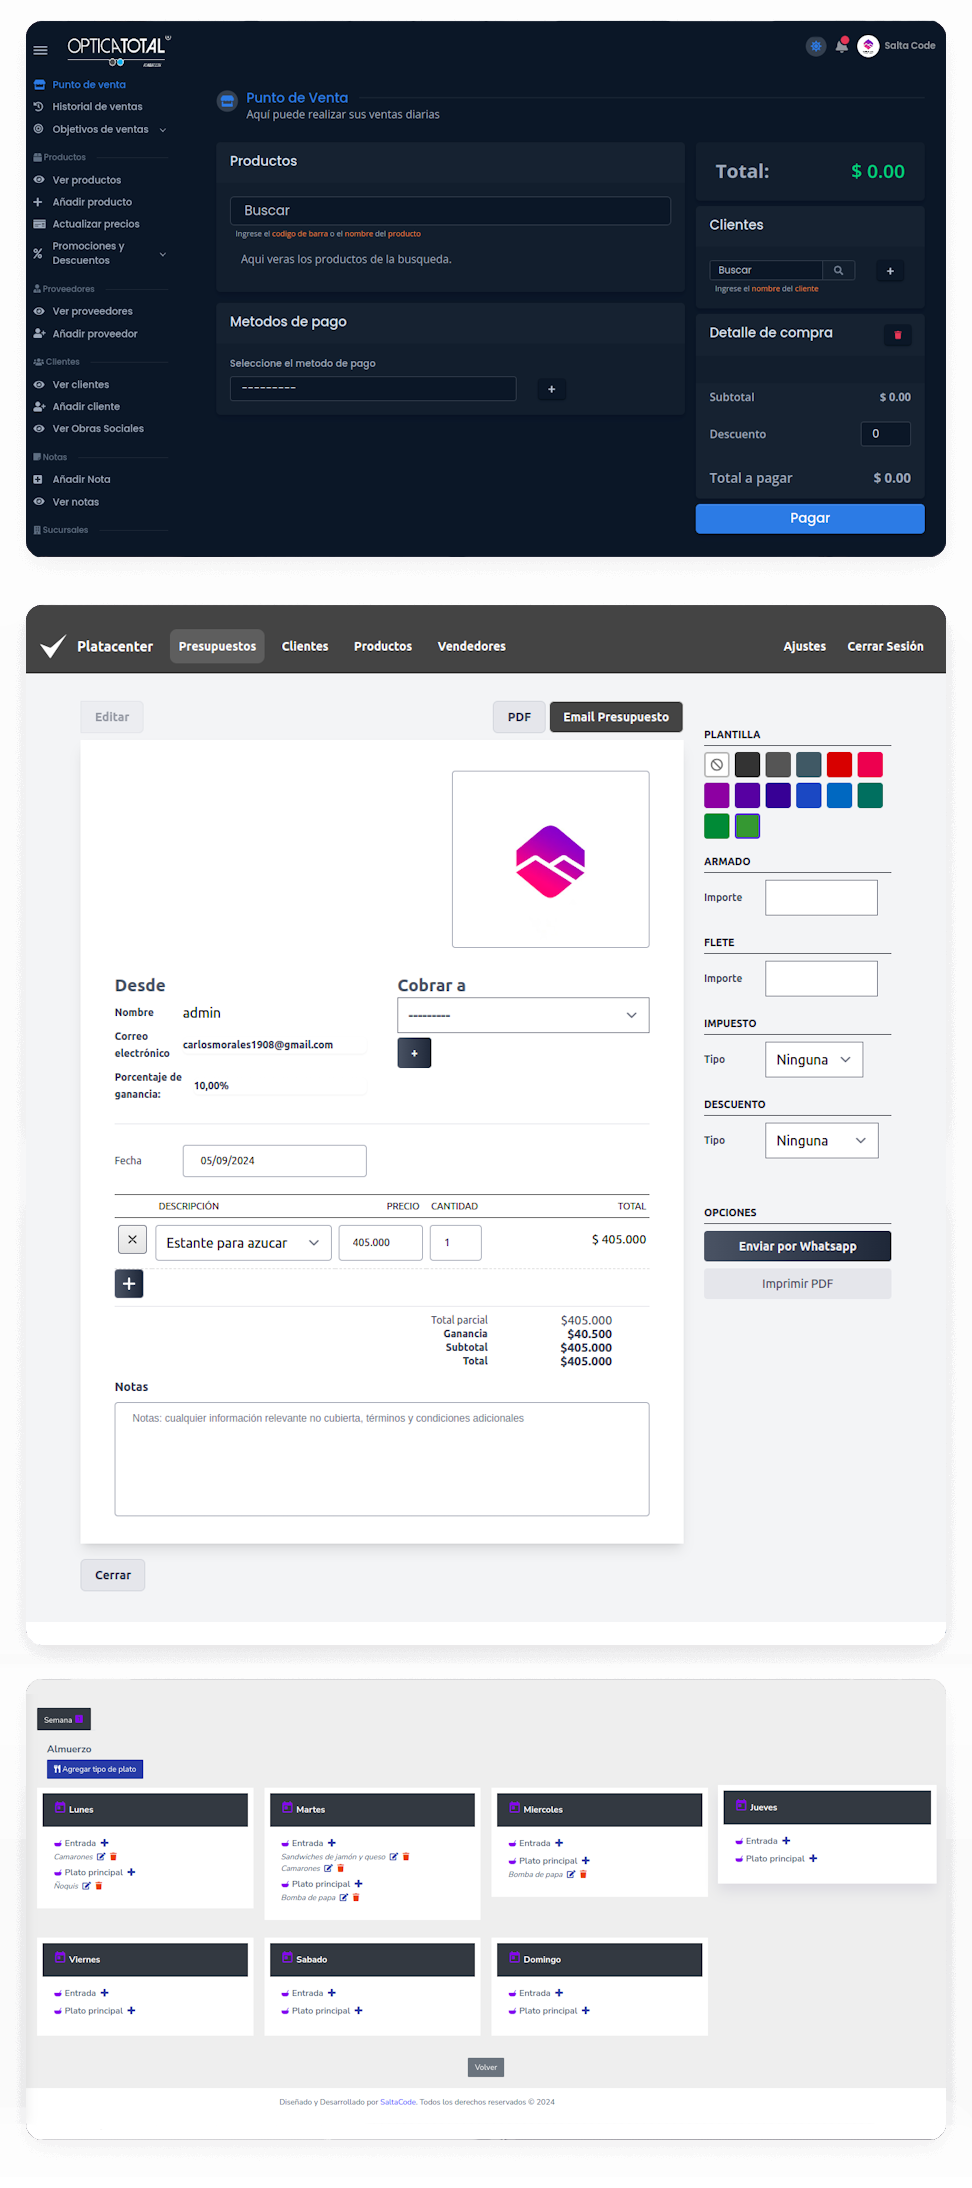
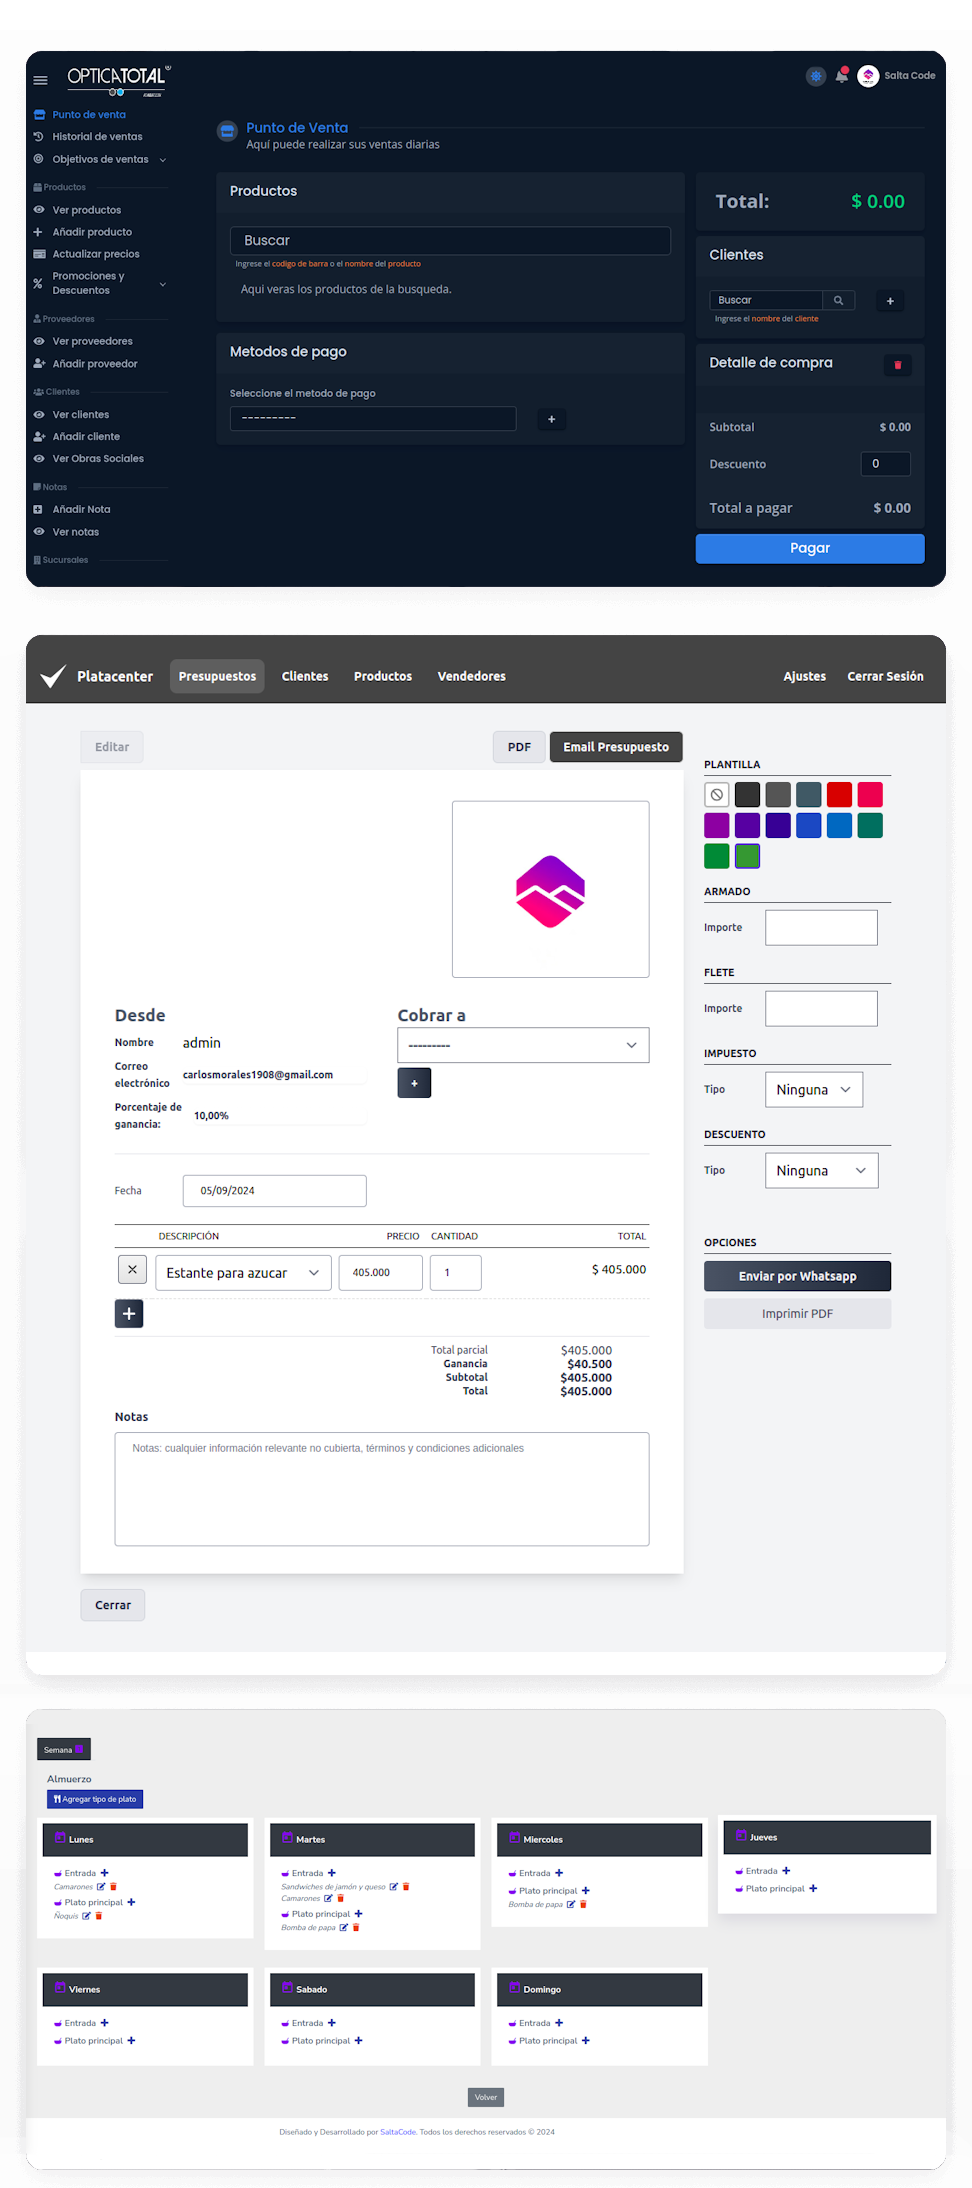
Se modificaron las imagenes del hero de saltacode

diff --git a/index.html b/index.html
@@ -566,7 +566,7 @@
                         </div>
                         <div class="d-flex flex-shrink-0 align-items-start">
                             <img
-                                src="assets/img/new-landing/hero/screens01edit.png"
+                                src="assets/img/new-landing/hero/screens01.png"
                                 class="rellax d-block flex-shrink-0 mt-n5"
                                 width="486"
                                 height="1390"
@@ -575,7 +575,7 @@
                                 data-disable-parallax-down="md"
                             />
                             <img
-                                src="assets/img/new-landing/hero/screens02edit.png"
+                                src="assets/img/new-landing/hero/screens02.png"
                                 class="rellax d-block flex-shrink-0 mt-5"
                                 width="486"
                                 height="1470"
@@ -584,7 +584,7 @@
                                 data-disable-parallax-down="md"
                             />
                             <img
-                                src="assets/img/new-landing/hero/screens03edit.png"
+                                src="assets/img/new-landing/hero/screens03.png"
                                 class="rellax d-block flex-shrink-0"
                                 width="486"
                                 height="1480"
